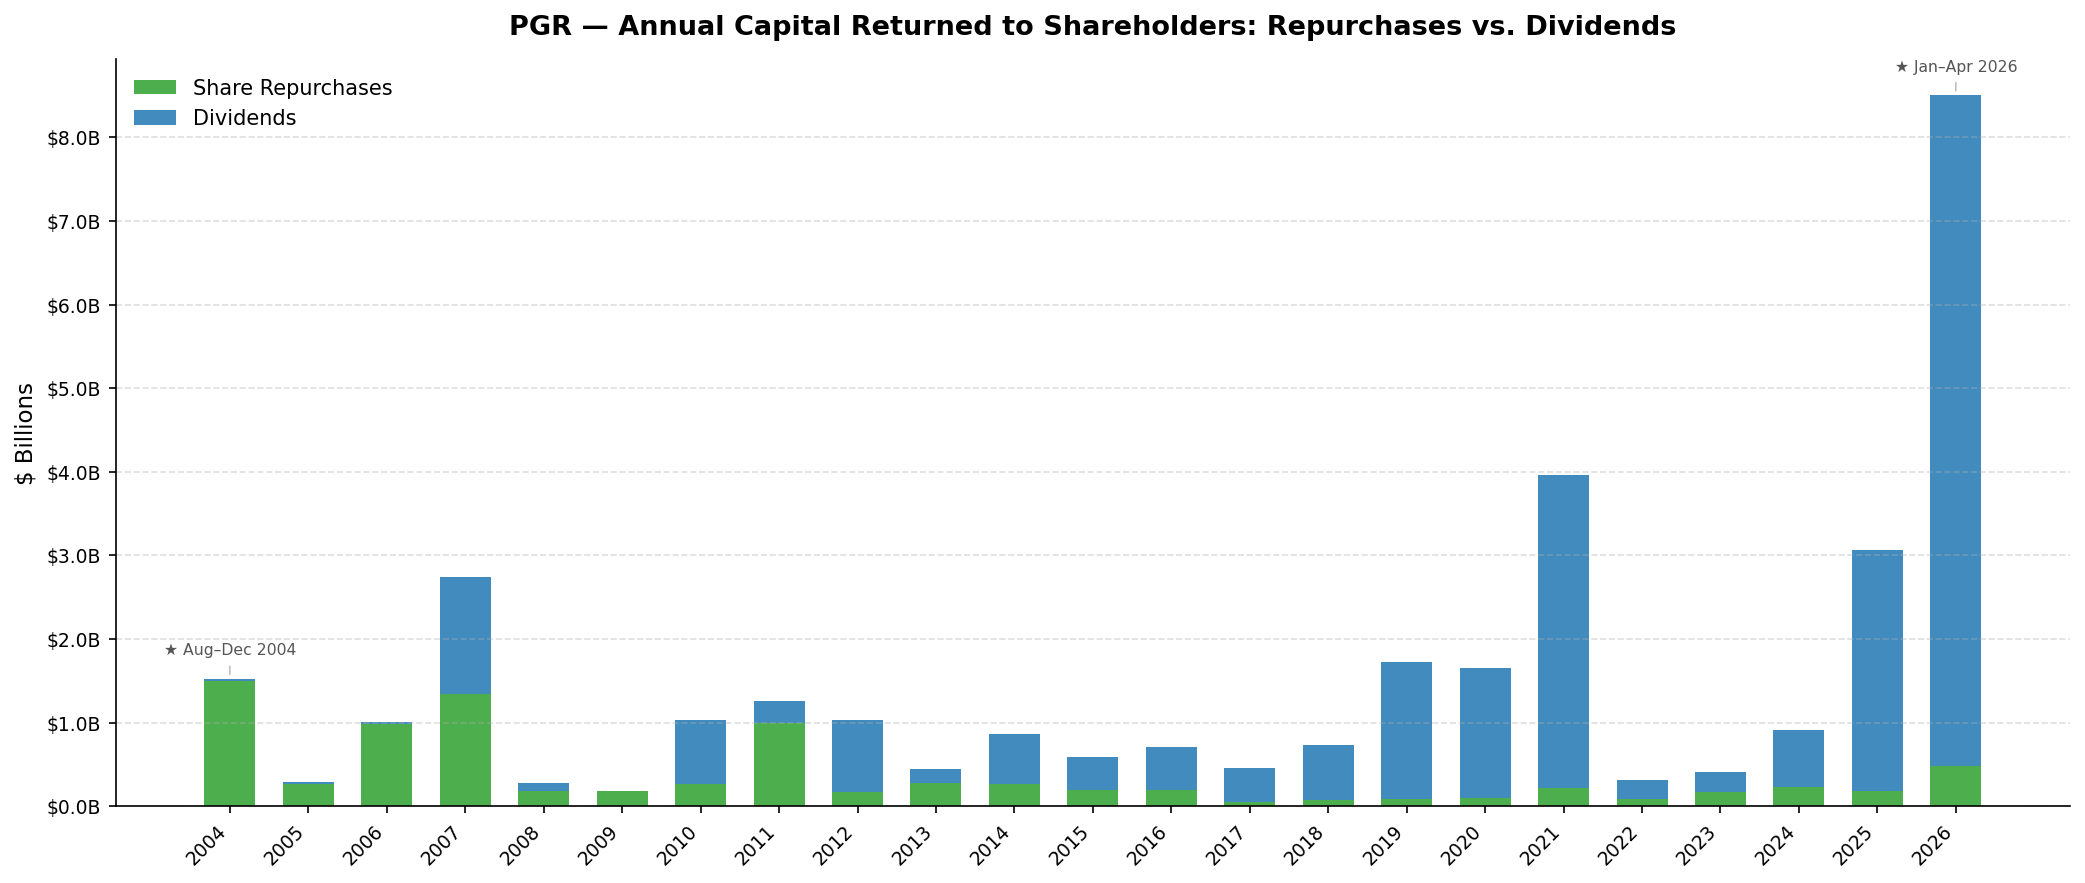
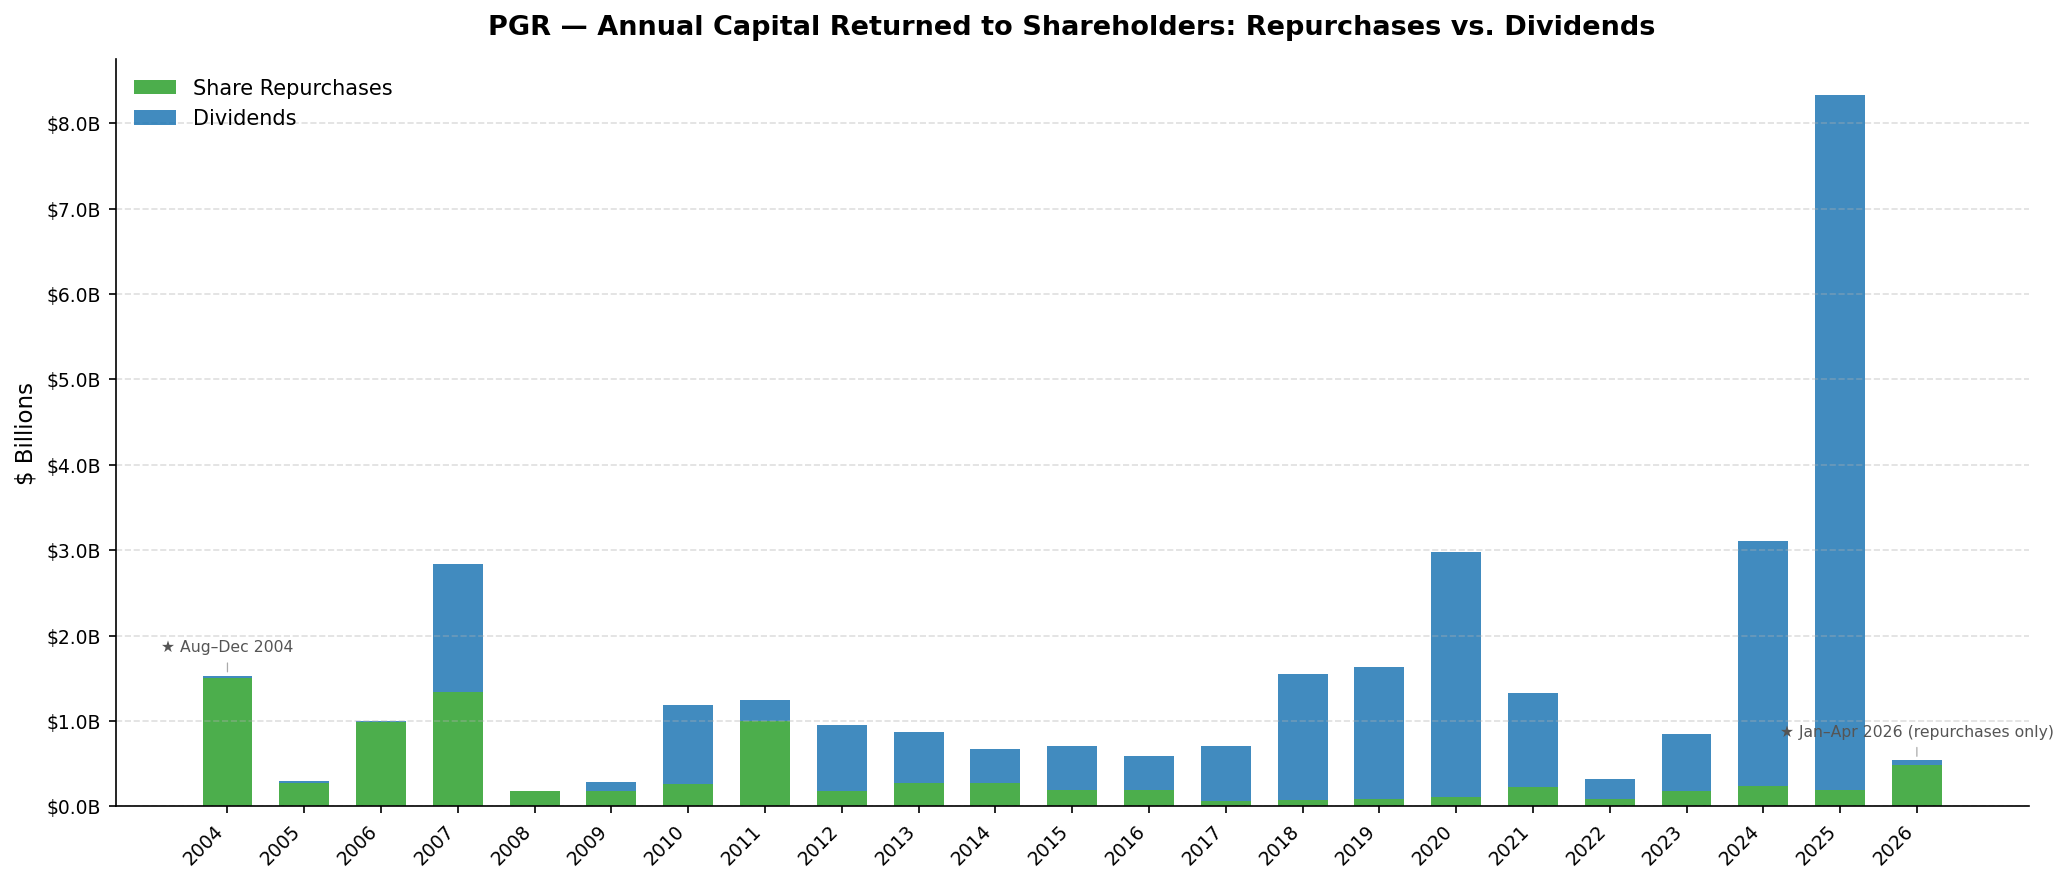
Attribute Q1 dividends to prior year in capital return chart
Q1 dividends (January–March ex-dates) represent distributions of the prior year's
earnings, so they are now attributed to year N-1 rather than the payment year.
This aligns the large annual variable dividend (paid in January or February) with
the performance period it reflects.

https://claude.ai/code/session_0195Z44Z3FCiF6hXPsBWuJjS

diff --git a/scripts/capital_return_charts.py b/scripts/capital_return_charts.py
@@ -81,7 +81,14 @@ conn.close()
 annual_dividend = defaultdict(float)  # year -> $M
 
 for ex_date, amount in div_rows:
-    year = ex_date[:4]
+    # Q1 dividends (Jan–Mar) are distributions of the prior year's earnings;
+    # attribute them to the prior calendar year so the chart aligns with the
+    # performance period rather than the payment date.
+    year_int = int(ex_date[:4])
+    month    = int(ex_date[5:7])
+    if month <= 3:
+        year_int -= 1
+    year = str(year_int)
     ym = ex_date[:7]
     shares = shares_at(ym)
     if shares is None:
@@ -97,7 +104,7 @@ div_vals  = [annual_dividend.get(y, 0.0)   / 1000 for y in years]  # convert to 
 year_ints = [int(y) for y in years]
 
 # Identify partial years: 2004 (data starts Aug) and 2026 (ongoing)
-PARTIAL_YEARS = {"2004": "Aug–Dec 2004", "2026": "Jan–Apr 2026"}
+PARTIAL_YEARS = {"2004": "Aug–Dec 2004", "2026": "Jan–Apr 2026 (repurchases only)"}
 
 # ── 5. Build chart ────────────────────────────────────────────────────────────
 GREEN  = "#2ca02c"   # repurchases — matches existing chart style